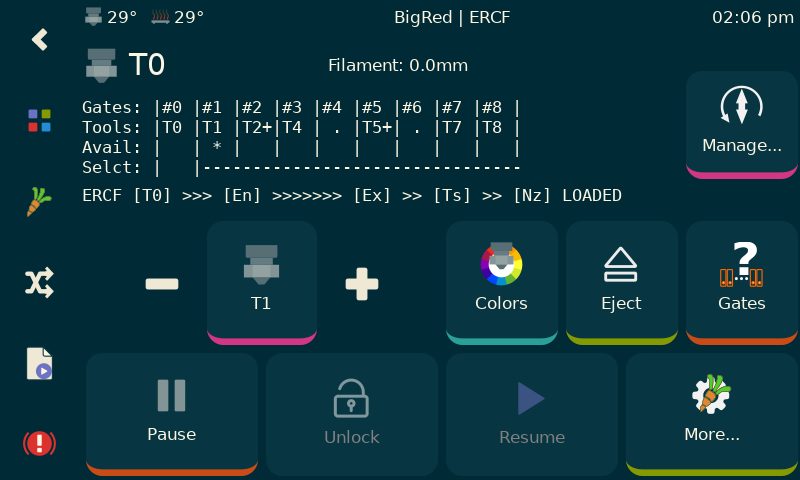
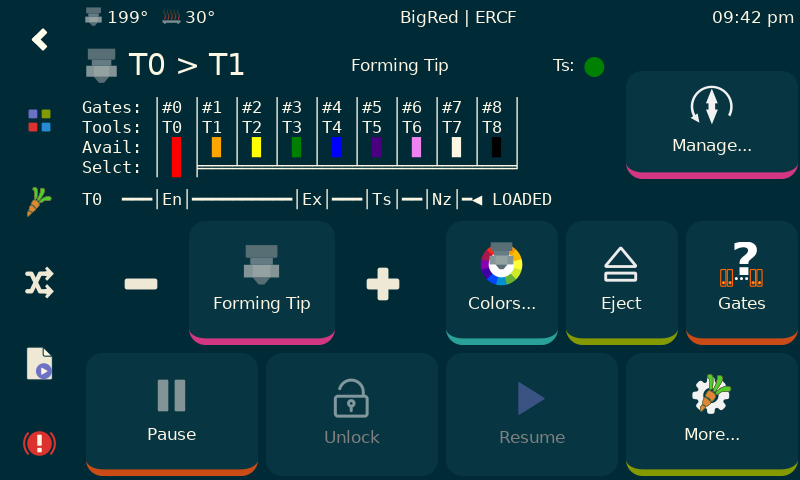
Almost there!

diff --git a/styles/base.css b/styles/base.css
@@ -573,6 +573,10 @@ popover button {
     font-size: 3em;
 }
 
+.ercf_sensor_text {
+    font-size: 1.6em;
+}
+
 .ercf_sel_increase {
     margin-left: 10px;
     margin-right: 25px;
@@ -591,6 +595,10 @@ popover button {
     margin-top: 8px;
     margin-bottom: 8px;
     font-size: 1.2em;
+}
+
+.ercf_material_text {
+    font-size: 1.6em;
 }
 
 .ercf_status {

diff --git a/panels/ercf_main.py b/panels/ercf_main.py
@@ -86,6 +86,8 @@ class ErcfMain(ScreenPanel):
             'tool_icon': self._gtk.Image('extruder', self._gtk.img_width * 0.8, self._gtk.img_height * 0.8),
             'tool_label': self._gtk.Label('Unknown'),
             'filament': self._gtk.Label('Filament: Unknown'),
+            'sensor': self._gtk.Label('Ts:'),
+            'sensor_state': self._gtk.Label('✔  '),
             'select_bypass_img': self._gtk.Image('ercf_select_bypass'), # Alternative for tool
             'load_bypass_img': self._gtk.Image('ercf_load_bypass'),     # Alternative for picker
             'unload_bypass_img': self._gtk.Image('ercf_unload_bypass'), # Alternative for eject
@@ -117,6 +119,9 @@ class ErcfMain(ScreenPanel):
         self.labels['tool_label'].get_style_context().add_class("ercf_tool_text")
         self.labels['tool_label'].set_xalign(0)
         self.labels['filament'].set_xalign(0)
+        self.labels['sensor'].set_xalign(1)
+        self.labels['sensor_state'].set_xalign(0)
+        self.labels['sensor_state'].get_style_context().add_class("ercf_sensor_text")
         self.labels['manage'].set_valign(Gtk.Align.CENTER)
 
         scale = Gtk.Scale.new_with_range(orientation=Gtk.Orientation.VERTICAL, min=-30., max=0., step=0.1)
@@ -159,7 +164,7 @@ class ErcfMain(ScreenPanel):
         status_box = Gtk.Box(orientation=Gtk.Orientation.VERTICAL, spacing=0)
         for i in range(5):
             name = (f'status{i+1}')
-            self.labels[name] = Gtk.Label("")
+            self.labels[name] = Gtk.Label()
             self.labels[name].get_style_context().add_class("ercf_status")
             self.labels[name].set_xalign(0)
             if i < 4:
@@ -171,6 +176,9 @@ class ErcfMain(ScreenPanel):
         top_box.pack_start(self.labels['tool_icon'], False, True, 0)
         top_box.pack_start(self.labels['tool_label'], True, True, 0)
         top_box.pack_start(self.labels['filament'], True, True, 0)
+        top_box.pack_start(self.labels['sensor'], False, True, 0)
+        top_box.pack_start(self.labels['sensor_state'], False, True, 0)
+#        top_box.pack_start(Gtk.Label(), False, True, 10)
 
         top_grid = Gtk.Grid()
         top_grid.set_vexpand(False)
@@ -311,8 +319,8 @@ class ErcfMain(ScreenPanel):
         ercf = self._printer.get_stat("ercf")
         tool = ercf['tool']
         next_tool = ercf['next_tool']
-        text = ("T%d" % tool) if tool >= 0 else "Bypass" if tool == -2 else "Unknown"
-        text += (" > T%d" % next_tool) if next_tool >= 0 and next_tool != tool else ""
+        text = ("T%d " % tool) if (tool >= 0 and tool != next_tool) else "Bypass " if tool == -2 else "Unknown " if tool == -1 else ""
+        text += ("> T%d" % next_tool) if next_tool >= 0 else ""
         self.labels['tool_label'].set_text(text)
         if tool == self.TOOL_BYPASS:
             self.labels['picker'].set_image(self.labels['load_bypass_img'])
@@ -416,6 +424,27 @@ class ErcfMain(ScreenPanel):
         else:
             self.labels['status5'].set_label(self.get_filament_text())
 
+        if self.check_toolhead_sensor() != None:
+            if self.check_toolhead_sensor() == 1:
+                self.labels['sensor'].get_style_context().remove_class("ercf_disabled_text")
+                self.labels['sensor_state'].set_label("●  ")
+                c_name = "green"
+            elif self.check_toolhead_sensor() == 0:
+                self.labels['sensor'].get_style_context().remove_class("ercf_disabled_text")
+                self.labels['sensor_state'].set_label("○  ")
+                c_name = "red"
+            else:
+                self.labels['sensor'].get_style_context().add_class("ercf_disabled_text")
+                self.labels['sensor_state'].set_label("◌  ")
+                c_name = "grey"
+
+            color = Gdk.RGBA()
+            Gdk.RGBA.parse(color, c_name)
+            self.labels['sensor_state'].override_color(Gtk.StateType.NORMAL, color)
+        else:
+            self.labels['sensor'].set_label("")
+            self.labels['sensor_state'].set_label("")
+
     def update_status(self):
         text, multi_tool = self.get_status_text(markup=self.markup_status)
         for i in range(4):
@@ -489,7 +518,7 @@ class ErcfMain(ScreenPanel):
         tool_to_gate_map = ercf['ttg_map']
         gate_selected = ercf['gate']
         tool_selected = ercf['tool']
-        gate_map = ercf['gate_map']
+        gate_color = ercf['gate_color']
         num_gates = len(gate_status)
 
         multi_tool = False
@@ -498,7 +527,7 @@ class ErcfMain(ScreenPanel):
         msg_avail = "Avail: "
         msg_selct = "Selct: "
         for g in range(num_gates):
-            color = gate_map[g]['color'].lower()
+            color = gate_color[g].lower()
             c = Gdk.color_parse(color)
             if c != None:
                 rgb_values = c.red / 65535., c.green / 65535., c.blue / 65535.
@@ -548,8 +577,8 @@ class ErcfMain(ScreenPanel):
         else:
             move_str = ""
         tool_str = (f"T{tool} ")[:3] if tool >=0 else "T? "
-        sensor_str = "│Ts│" if self.has_toolhead_sensor() else ""
-        sensor_str_homed = "┫Ts│" if self.has_toolhead_sensor() else ""
+        sensor_str = "│Ts│" if self.check_toolhead_sensor() != None else ""
+        sensor_str_homed = "┫Ts│" if self.check_toolhead_sensor() != None else ""
         if tool == self.TOOL_BYPASS and loaded_status == self.LOADED_STATUS_FULL:
             visual = "BYPASS ^━━━$│En│^━━━━━━━━━━━━━━━━━━$│Nz│^━$▶ %s" % (move_str)
         elif tool == self.TOOL_BYPASS:
@@ -578,10 +607,10 @@ class ErcfMain(ScreenPanel):
         if filament_direction == self.DIRECTION_UNLOAD and loaded_status != self.LOADED_STATUS_UNLOADED:
             visual = visual.replace("▶", "◀")
         if markup:
-            gate_map = ercf['gate_map']
+            gate_color = ercf['gate_color']
             gate = ercf['gate']
             if gate >= 0:
-                color = gate_map[gate]['color'].lower()
+                color = gate_color[gate].lower()
                 x = re.search("^#?([a-f\d]{6})$", color)
                 if x == None or x.group() != color:
                     color = ""
@@ -592,9 +621,15 @@ class ErcfMain(ScreenPanel):
         visual = visual.replace("^", "").replace("$", "")
         return visual
 
-    def has_toolhead_sensor(self):
+    def check_toolhead_sensor(self):
         sensor = self._printer.get_stat("filament_switch_sensor toolhead_sensor")
-        if sensor != None:
-            return sensor['enabled']
-        return False
+        if sensor == None:
+            return None
+        if sensor['enabled']:
+            if sensor['filament_detected']:
+                return 1
+            else:
+                return 0
+        else:
+            return -1
 

diff --git a/panels/ercf_picker.py b/panels/ercf_picker.py
@@ -48,7 +48,7 @@ class ErcfPicker(ScreenPanel):
             name.set_xalign(0.7)
 
             material = self.labels[f'material_{i}'] = Gtk.Label("n/a")
-            material.get_style_context().add_class("ercf_tool_text")
+            material.get_style_context().add_class("ercf_material_text")
             material.set_xalign(0.1)
 
             gate_box = Gtk.Box(orientation=Gtk.Orientation.VERTICAL, spacing=0)
@@ -81,16 +81,15 @@ class ErcfPicker(ScreenPanel):
         ercf = self._printer.get_stat("ercf")
         endless_spool = ercf['endless_spool']
         tool_map = self.build_tool_map()
-        gate_map = ercf['gate_map']
         gate_status = ercf['gate_status']
+        gate_material = ercf['gate_material']
+        gate_color = ercf['gate_color']
         num_tools = len(gate_status)
 
         for i in range(num_tools):
             t_map = tool_map[i]
-            g_map = gate_map[t_map['gate']]
-            logging.info(f"@@@************@@@ PAUL: i={i}, t_map={t_map}, g_map={g_map}")
             color = Gdk.RGBA()
-            Gdk.RGBA.parse(color, g_map['color'])
+            Gdk.RGBA.parse(color, gate_color[i])
 
             gate_str = (f"Gate #{t_map['gate']}")
             alt_gate_str = ''
@@ -98,7 +97,7 @@ class ErcfPicker(ScreenPanel):
                 alt_gate_str = '+(' + ', '.join(map(str, t_map['alt_gates'][:6]))
                 alt_gate_str += ', ...)' if len(t_map['alt_gates']) > 5 else ')'
 
-            if gate_status[i] == 1: # if g_map['available'] == 1: # TODO FUTURE
+            if gate_status[i] == 1:
                 status_icon = 'available_icon'
                 status_str = "Available"
             elif gate_status[i] == 0:
@@ -117,7 +116,7 @@ class ErcfPicker(ScreenPanel):
             self.labels[f'available_{i}'].set_label(status_str)
             self.labels[f'tool_{i}'].set_sensitive(gate_status[i] != self.GATE_EMPTY)
             self.labels[f'name_{i}'].override_color(Gtk.StateType.NORMAL, color)
-            self.labels[f'material_{i}'].set_label(g_map['material'][:5])
+            self.labels[f'material_{i}'].set_label(gate_material[i][:6])
             self.labels[f'gate_{i}'].set_label(gate_str)
             self.labels[f'alt_gates_{i}'].set_label(alt_gate_str)
 
@@ -148,8 +147,9 @@ class ErcfPicker(ScreenPanel):
                 return
             elif 'ercf' in data:
                 e_data = data['ercf']
-                if 'tool' in e_data or 'gate' in e_data or 'gate_status' in e_data or 'gate_map' in e_data:
-                    self._screen._menu_go_back() # We don't support dynamic updates on this screen so just go back
+                if 'tool' in e_data or 'gate' in e_data or 'gate_status' in e_data or 'gate_material' in e_data or 'gate_color' in e_data:
+                    self.activate()
+                    #self._screen._menu_go_back() # We don't support dynamic updates on this screen so just go back
 
     def select_tool(self, widget):
         ercf = self._printer.get_stat("ercf")

diff --git a/screen.py b/screen.py
@@ -234,8 +234,9 @@ class KlipperScreen(Gtk.Window):
                 "firmware_retraction": ["retract_length", "retract_speed", "unretract_extra_length", "unretract_speed"],
                 "motion_report": ["live_position", "live_velocity", "live_extruder_velocity"],
                 "exclude_object": ["current_object", "objects", "excluded_objects"],
-                "ercf": ["enabled", "is_locked", "is_homed", "tool", "next_tool", "gate", "clog_detection", "endless_spool", "filament", "servo",
-                    "gate_status", "endless_spool_groups", "ttg_map", "loaded_status", "filament_direction", "action", "gate_map"],
+                "ercf": ["enabled", "is_locked", "is_homed", "tool", "next_tool", "last_toolchange", "gate", "clog_detection", "endless_spool",
+                    "filament", "servo", "gate_status", "gate_material", "gate_color", "endless_spool_groups", "ttg_map",
+                    "loaded_status", "filament_direction", "action"],
             }
         }
         for extruder in self.printer.get_tools():

diff --git a/panels/ercf_recover.py b/panels/ercf_recover.py
@@ -347,7 +347,7 @@ class ErcfRecovery(ScreenPanel):
     def select_reset(self, widget):
         self._screen._confirm_send_action(
             None,
-            _("This will reset persisted ERCF state to defaults including\n\nTTG map, EndlessSpool groups, gate status and selector position\n\nSure you want to continue?"),
+            _("This will reset persisted ERCF state to defaults including TTG map,\n\nEndlessSpool groups, Gate map (material and type) and current selector position\n\nSure you want to continue?"),
             "printer.gcode.script",
             {'script': "ERCF_RESET"}
         )
